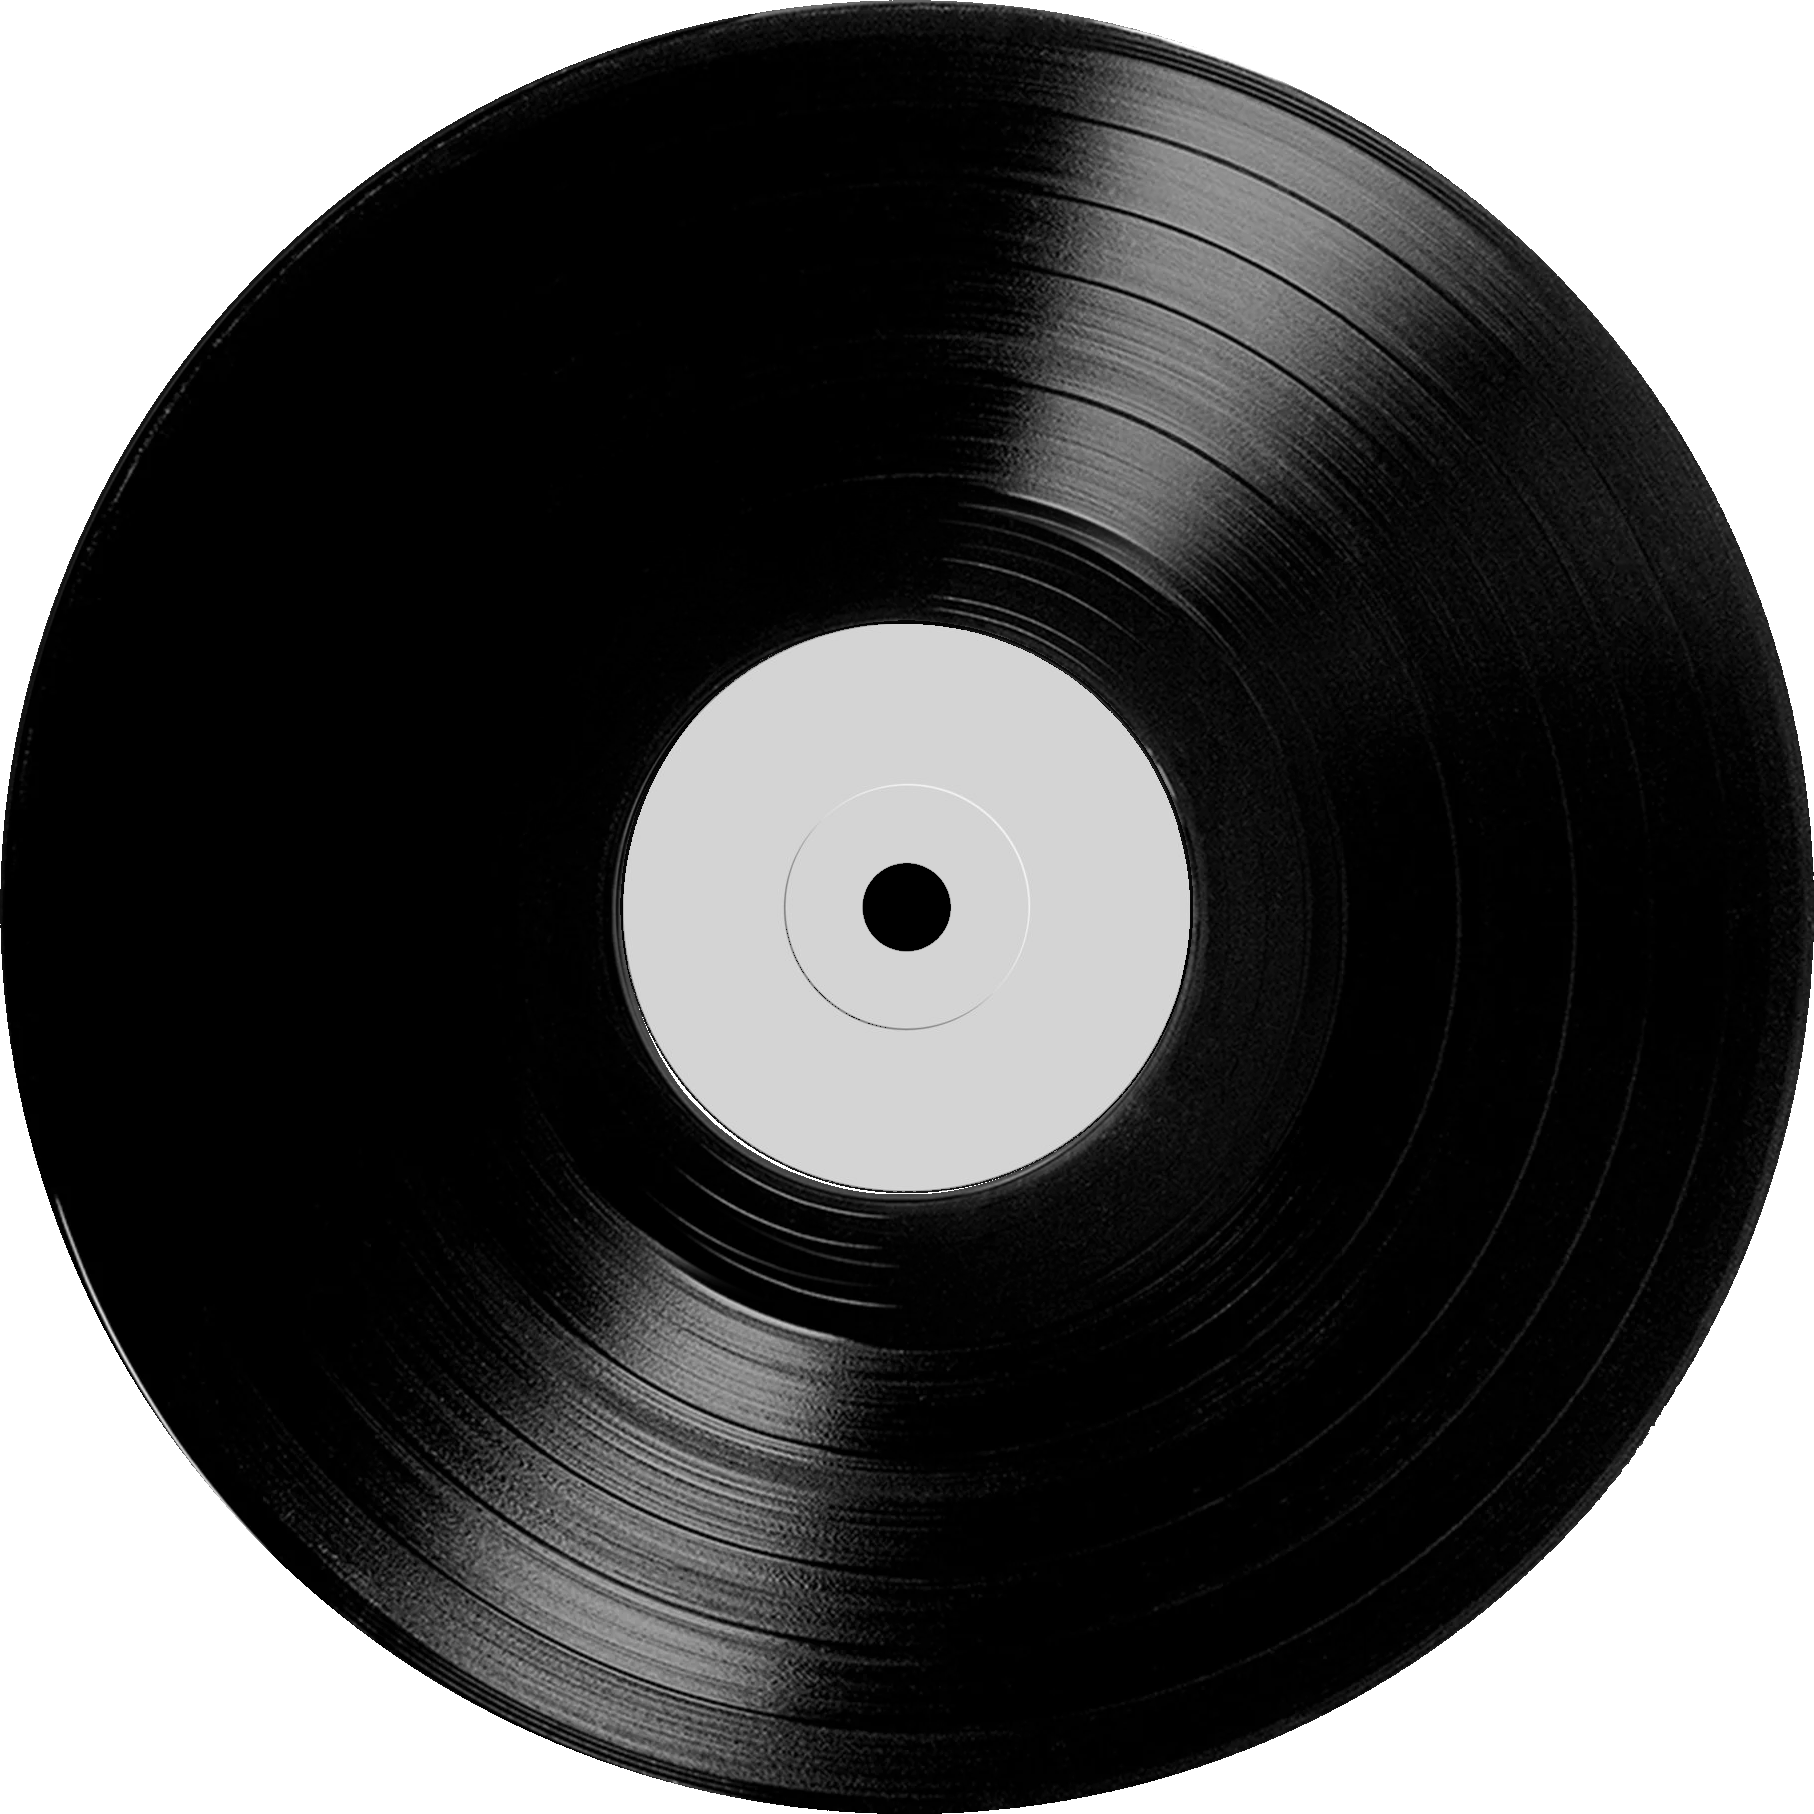
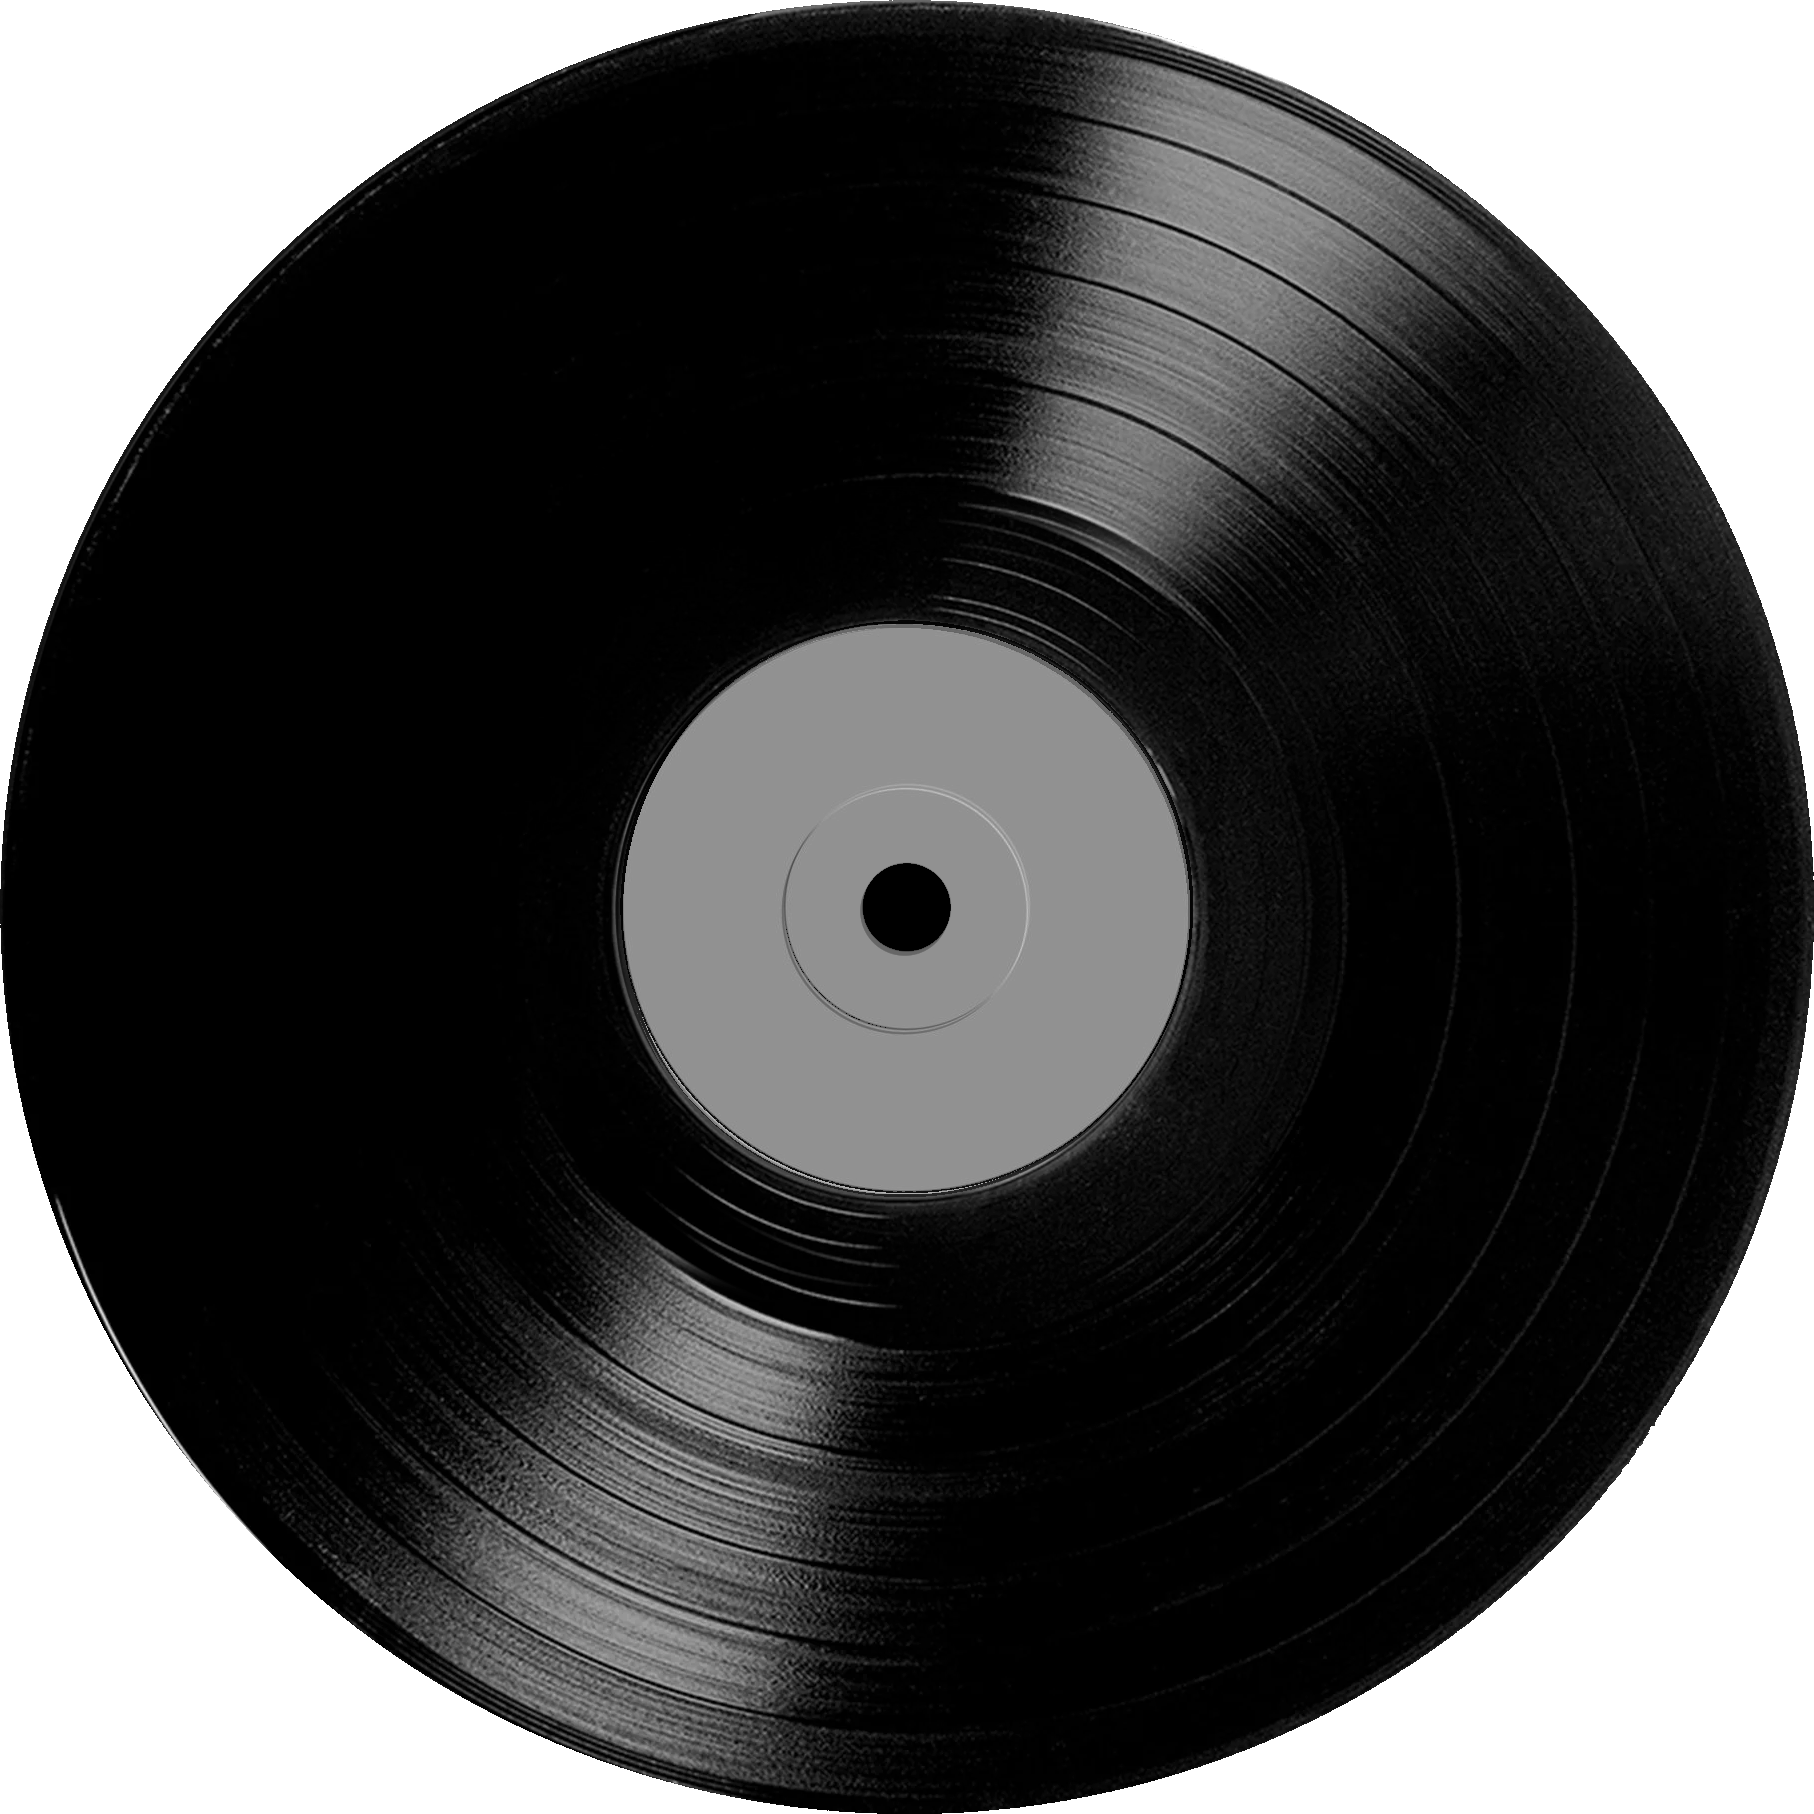
assets adjustments

Changed region(s): [[0.3396, 0.3396, 0.6792, 0.6792]]

diff --git a/src/App.jsx b/src/App.jsx
@@ -11,7 +11,7 @@ import { songsData, albumsData } from './assets/assets'
 
 const App = () => {
   let audioRef = React.useRef(null);
-  let [currentSongIndex, setCurrentSongIndex] = React.useState(67);
+  let [currentSongIndex, setCurrentSongIndex] = React.useState(1);
   let [isPlaying, setIsPlaying] = React.useState(false);
   const [isFancyOpen, setFancy] = React.useState(false)
 

diff --git a/src/assets/assets.js b/src/assets/assets.js
@@ -258,7 +258,7 @@ export const albumsData = [
     artist: 'femtanyl',
     image: albumCovers.img1,
     desc: 'CHASER by femtanyl',
-    bgColor: '#191919',
+    bgColor: '#FF0328',
   },
 
   {
